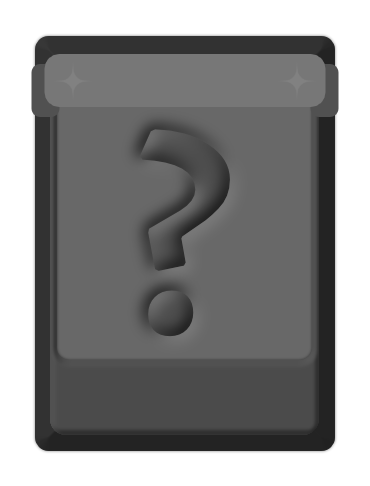
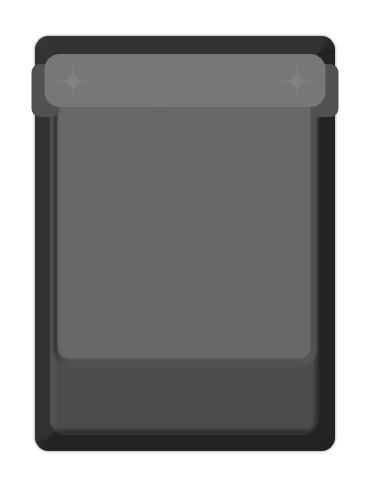
Refactored UI to use anchored positions
* Switching resolution mid-game no longer breaks the interface
* Fixed an issue where discarding or drawing cards would sometimes go off-screen when resolution changes
+ Refactored card draw per turn setting so I can set it through the inspector
+ Renamed Elixer to Balm to shorten card titles
+ Revamped empty card socket backgrounds

Changed region(s): [[0.3568, 0.2469, 0.6243, 0.5556], [0.3568, 0.5864, 0.5351, 0.7099]]

diff --git a/Assets/Characters/Player/Deck/PlayerHandPanel.cs b/Assets/Characters/Player/Deck/PlayerHandPanel.cs
@@ -10,14 +10,14 @@ public class PlayerHandPanel : MonoBehaviour
     private List<Card> cardsInPanel = new();
     private int previousCardCount = 0;
     [SerializeField] private Card cardToSpawn;
-    [SerializeField] private Transform targetDrawCardsFrom;
-    [SerializeField] private Transform targetDiscardCardsTo;
+    [SerializeField] private RectTransform targetDrawCardsFrom;
+    [SerializeField] private RectTransform targetDiscardCardsTo;
     [SerializeField] private float drawDelay = 0.1f;
     [SerializeField] private Canvas targetReferenceScalingCanvas;
     [SerializeField] private float maxSpacing = 50;
     private const float maxTimeForShufflingToComplete = 1;
     private const float maxCardFanRotation = 7;
-    private const float maxCardFanHeightoffset = 3f;
+    private const float maxCardFanHeightoffset = 10f;
 
     private void Awake()
     {
@@ -28,7 +28,7 @@ public class PlayerHandPanel : MonoBehaviour
     private void Update()
     {
         // Only update the position of the cards if the amount of cards in your hand changed
-        if (cardsInPanel.Count != previousCardCount || HelperFunctions.HasResolutionChanged())
+        if (cardsInPanel.Count != previousCardCount)
         {
             previousCardCount = cardsInPanel.Count;
             FanCardsInPanel();
@@ -75,8 +75,8 @@ public class PlayerHandPanel : MonoBehaviour
             cardsInPanel[i].CardPointerInteraction.AssignRotation(cardRotation);
 
             // Adjust height (cards with more rotation are positioned lower)
-            float heightOffset = Mathf.Abs(zRotation) * maxCardFanHeightoffset;
-            cardPosition.y -= heightOffset;
+            float heightOffset = -maxCardFanHeightoffset * Mathf.Pow(offset / centerIndex, 2);
+            cardPosition.y += heightOffset;
 
             // Assign the corrected anchored position
             cardsInPanel[i].CardPointerInteraction.AssignAnchoredPosition(cardPosition);
@@ -86,6 +86,7 @@ public class PlayerHandPanel : MonoBehaviour
     public void AssignCardToPanel(Card card)
     {
         card.transform.SetParent(transform);
+        card.GetComponent<RectTransform>().localScale = Vector3.one; // Reset scale to prevent flipping or resolution scaling
         cardsInPanel.Insert(0, card); // This inserts the card at the beginning
     }
 
@@ -106,8 +107,15 @@ public class PlayerHandPanel : MonoBehaviour
     public void SentCardToDiscard(Card card, float travelTime)
     {
         Decks.Playerdeck.CurrentCardsInDiscard.Add(card.GetCardInfo());
-        card.CardPointerInteraction.AssignPosition(targetDiscardCardsTo.position, travelTime);
-        card.SetSelfDestructWhenReachingTargetTransform(targetDiscardCardsTo);
+
+        // Convert discard pile world position to UI-anchored position using the canvas as reference
+        Vector2 localDiscardPos = HelperFunctions.ConvertWorldToAnchoredPosition(targetDiscardCardsTo.position, rectTransform);
+
+        // Assign the correctly converted position
+        card.CardPointerInteraction.AssignAnchoredPosition(localDiscardPos, travelTime);
+
+        // Set the card to self-destruct when reaching the discard pile
+        card.SetSelfDestructWhenReachingTargetPosition(localDiscardPos);
     }
 
     public void DrawCards(int drawAmount)
@@ -133,8 +141,9 @@ public class PlayerHandPanel : MonoBehaviour
                     Card shuffleCard = Instantiate(cardToSpawn, targetDiscardCardsTo);
                     CardScriptableObject discardCardScriptableObject = Decks.Playerdeck.CurrentCardsInDiscard[0];
                     shuffleCard.SetCardInfo(discardCardScriptableObject, PlayerUI.PlayerCircuitboard, true);
-                    shuffleCard.CardPointerInteraction.AssignPosition(targetDrawCardsFrom.position, 0.25f);
-                    shuffleCard.SetSelfDestructWhenReachingTargetTransform(targetDrawCardsFrom);
+                    Vector2 localDrawPos = HelperFunctions.ConvertWorldToAnchoredPosition(targetDrawCardsFrom.position, targetDiscardCardsTo);
+                    shuffleCard.CardPointerInteraction.AssignAnchoredPosition(localDrawPos, 0.25f);
+                    shuffleCard.SetSelfDestructWhenReachingTargetPosition(localDrawPos);
 
                     Decks.Playerdeck.CurrentCardsInDeck.Add(Decks.Playerdeck.CurrentCardsInDiscard[0]);
                     Decks.Playerdeck.CurrentCardsInDiscard.RemoveAt(0);

diff --git a/Assets/Cards/Card.cs b/Assets/Cards/Card.cs
@@ -8,6 +8,7 @@ using Doozy.Runtime.Common.Extensions;
 using Doozy.Runtime.Reactor.Animators;
 using Unity.VisualScripting;
 
+[RequireComponent(typeof(RectTransform))]
 public class Card : MonoBehaviour
 {
     public string CardId { get; private set; }
@@ -26,7 +27,8 @@ public class Card : MonoBehaviour
     [SerializeField] private CardTooltip cardTooltipPrefab;
     private CardTooltip activeCardTooltip;
 
-    private Transform targetSelfDestructDestination;
+    private RectTransform rectTransform;
+    private Vector2 targetSelfDestructDestination;
     public float MaxTimeInUse = 0.5f;
     //public float MaxTimeInUse { get; private set; } = 0.5f;
     private bool isCardActivated { get; set; } = false;
@@ -41,6 +43,7 @@ public class Card : MonoBehaviour
         cardScriptableObject = scriptableObject;
         ConnectedCircuitboard = owner;
         IsCardVisible = isVisible;
+        rectTransform = GetComponent<RectTransform>();
 
         if (isVisible)
         {
@@ -198,17 +201,23 @@ public class Card : MonoBehaviour
         isCardActivated = false;
     }
 
-    public void SetSelfDestructWhenReachingTargetTransform(Transform target)
+    public void SetSelfDestructWhenReachingTargetPosition(Vector2 targetPosition)
     {
-        targetSelfDestructDestination = target;
+        targetSelfDestructDestination = targetPosition;
     }
 
     private void CheckForSelfDestruct()
     {
-        // If the card transform is close to a self destruct destination
-        // E.g. used when discard this card to the discard pile
-        if (targetSelfDestructDestination != null)
-            if (Vector2.Distance(transform.position, targetSelfDestructDestination.position) <= 2.5f)
-                Destroy(gameObject);
+        if (targetSelfDestructDestination == Vector2.zero)
+        {
+            return;
+        }
+
+        float distance = Vector2.Distance(targetSelfDestructDestination, rectTransform.anchoredPosition);
+
+        if (distance <= 0.5f)
+        {
+            Destroy(gameObject, 0.1f);
+        }
     }
 }

diff --git a/Assets/Cards/Card_PointerInteraction.cs b/Assets/Cards/Card_PointerInteraction.cs
@@ -313,40 +313,32 @@ public class Card_PointerInteraction : MonoBehaviour, IDragHandler, IBeginDragHa
         }
     }
 
-    public void AssignAnchoredPosition(Vector2 position)
+    public void AssignAnchoredPosition(Vector2 position, float travelTime = 0)
     {
         // Only assign position if it's different than before
         if (position != desiredPosition)
         {
-            desiredPosition = position;
-            startPosition = rectTransform.anchoredPosition;
-        }
-    }
-
-    public void AssignPosition(Vector2 position, float travelTime)
-    {
-        // Only assign position if it's different than before
-        if (position != desiredPosition)
-        {
-            // Reset curTime timer
+            // Reset the movement timer
             curTime = 0;
 
             if (travelTime > 0)
             {
-                // Set travel duration
+                // Set travel duration for smooth movement
                 travelDuration = travelTime;
 
                 // Cards that change zone should not be able to be interacted with
                 isInteractable = false;
-                button.interactable = false;
+                GetComponent<Button>().interactable = false;
+                CanvasGroup canvasGroup = GetComponent<CanvasGroup>();
                 canvasGroup.interactable = false;
                 canvasGroup.blocksRaycasts = false;
 
-                // Set special card animation for cards with travelTime
+                // Play card animation for cards with travelTime
                 animator.speed = 1 / travelTime;
                 animator.Play("A_Card_ChangeZone");
             }
 
+            // Set desired position in local UI space
             desiredPosition = position;
             startPosition = rectTransform.anchoredPosition;
         }

diff --git a/Assets/Characters/Player/PlayerCircuitBoard.cs b/Assets/Characters/Player/PlayerCircuitBoard.cs
@@ -11,6 +11,7 @@ using Unity.VisualScripting;
 public static class PlayerUI
 {
     public static Canvas CanvasScreenSpace { get; set; } = null;
+    public static RectTransform CanvasRectTransform { get; set; } = null;
     public static PlayerHandPanel HandPanel { get; set; } = null;
     public static GameObject CardPanel { get; set; } = null;
     public static GameObject SocketPanel { get; set; } = null;
@@ -206,8 +207,9 @@ public class PlayerCircuitBoard : CircuitBoard
             if (ActiveSockets[i].SlottedCard != null)
             {
                 // Sets the position of the card to the connected socket
-                Vector2 newCardPosition = ActiveSockets[i].transform.position;
-                ActiveSockets[i].SlottedCard.CardPointerInteraction.AssignAnchoredPosition(newCardPosition);
+                RectTransform cardPanelRect = cardPanel.GetComponent<RectTransform>();
+                Vector2 localSocketPosition = HelperFunctions.ConvertWorldToAnchoredPosition(ActiveSockets[i].transform.position, cardPanelRect);
+                ActiveSockets[i].SlottedCard.CardPointerInteraction.AssignAnchoredPosition(localSocketPosition);
             }
         }
     }

diff --git a/Assets/Characters/Player/Deck/PlayerDeck.cs b/Assets/Characters/Player/Deck/PlayerDeck.cs
@@ -1,5 +1,6 @@
 using System.Collections;
 using System.Collections.Generic;
+using Unity.VisualScripting;
 using UnityEngine;
 
 public class PlayerDeck : MonoBehaviour
@@ -9,7 +10,7 @@ public class PlayerDeck : MonoBehaviour
     public List<CardScriptableObject> CurrentCardsInDeck { set; get; } = new();
     public List<CardScriptableObject> CurrentCardsInDiscard { set; get; } = new();
     public List<CardScriptableObject> AllPossibleAvailableCards { set; get; } = new();
-    public int CardDrawPerTurn {set; get; } = 5;
+    [SerializeField] private int CardDrawPerTurn = 5;
 
     private void Awake()
     {
@@ -24,6 +25,16 @@ public class PlayerDeck : MonoBehaviour
         {
             AllPossibleAvailableCards.AddRange(playerlevels[i].possibleNewCardRewards);
         }
+    }
+
+    public void IncreaseDrawPerTurn(int amount)
+    {
+        CardDrawPerTurn += amount;
+    }
+
+    public int GetDrawPerTurn()
+    {
+        return CardDrawPerTurn;
     }
 }
 

diff --git a/Assets/Cards/CircuitBoard.cs b/Assets/Cards/CircuitBoard.cs
@@ -100,7 +100,13 @@ public class CircuitBoard : MonoBehaviour
     {
         newCard.transform.SetParent(cardPanel.transform);
         newCard.ConnectToSocket(socket);
-        newCard.CardPointerInteraction.AssignAnchoredPosition(socket.transform.position);
+
+        // Assign anchored position equal to the world position of the sockets
+        RectTransform cardPanelRect = cardPanel.GetComponent<RectTransform>();
+        Vector2 localSocketPosition = HelperFunctions.ConvertWorldToAnchoredPosition(socket.transform.position, cardPanelRect);
+        newCard.CardPointerInteraction.AssignAnchoredPosition(localSocketPosition);
+
+        // Assign rotation
         newCard.CardPointerInteraction.AssignRotation(Vector3.zero);
     }
 

diff --git a/Assets/HelperFunctions.cs b/Assets/HelperFunctions.cs
@@ -350,4 +350,12 @@ public static class HelperFunctions
 
         return color;
     }
+
+    public static Vector2 ConvertWorldToAnchoredPosition(Vector3 worldPosition, RectTransform referenceRect)
+    {
+        Vector2 screenPoint = RectTransformUtility.WorldToScreenPoint(null, worldPosition);
+        Vector2 localPoint;
+        RectTransformUtility.ScreenPointToLocalPointInRectangle(referenceRect, screenPoint, null, out localPoint);
+        return localPoint;
+    }
 }

diff --git a/Assets/TransitionTurns.cs b/Assets/TransitionTurns.cs
@@ -242,7 +242,7 @@ public class TransitionTurns : MonoBehaviour
 
     private void PlayerDrawPhase()
     {
-        PlayerUI.HandPanel.DrawCards(Decks.Playerdeck.CardDrawPerTurn);
+        PlayerUI.HandPanel.DrawCards(Decks.Playerdeck.GetDrawPerTurn());
     }
 }
 

diff --git a/Assets/UI/UISetStaticScreenSpace.cs b/Assets/UI/UISetStaticScreenSpace.cs
@@ -7,5 +7,6 @@ public class UISetStaticScreenSpace : MonoBehaviour
     private void Awake()
     {
         PlayerUI.CanvasScreenSpace = GetComponent<Canvas>();
+        PlayerUI.CanvasRectTransform = GetComponent<RectTransform>();
     }
 }
